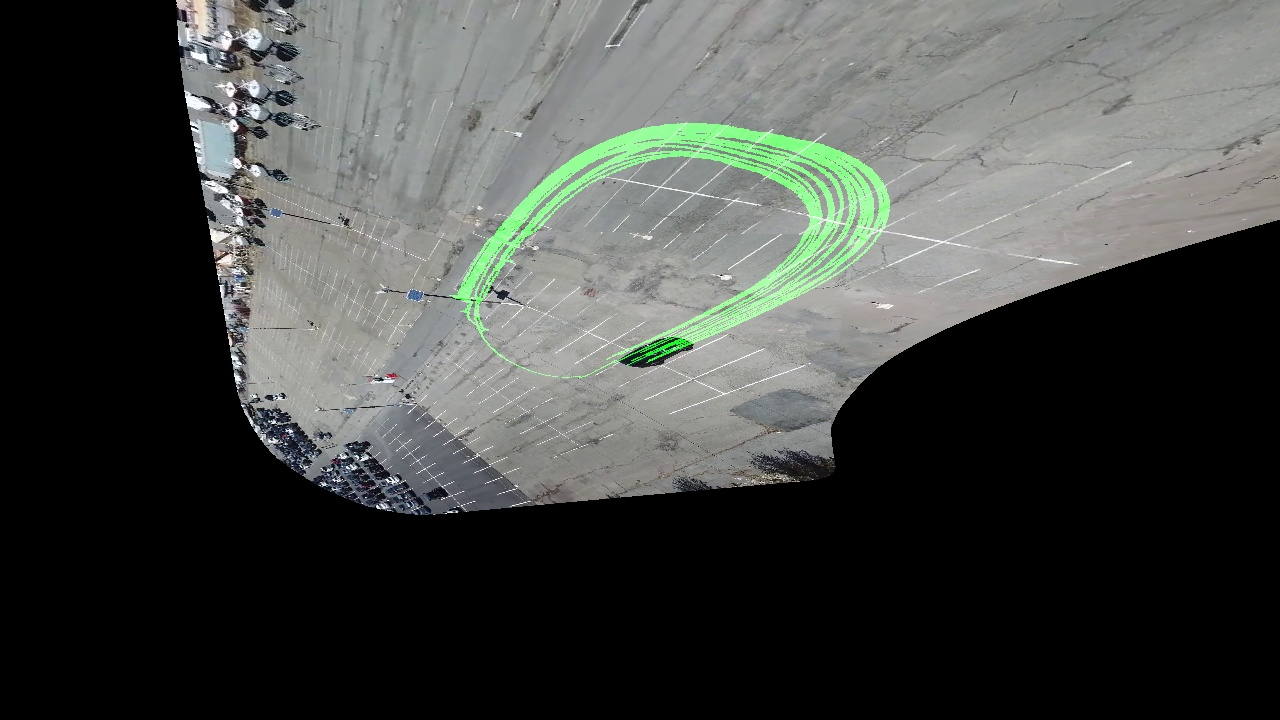
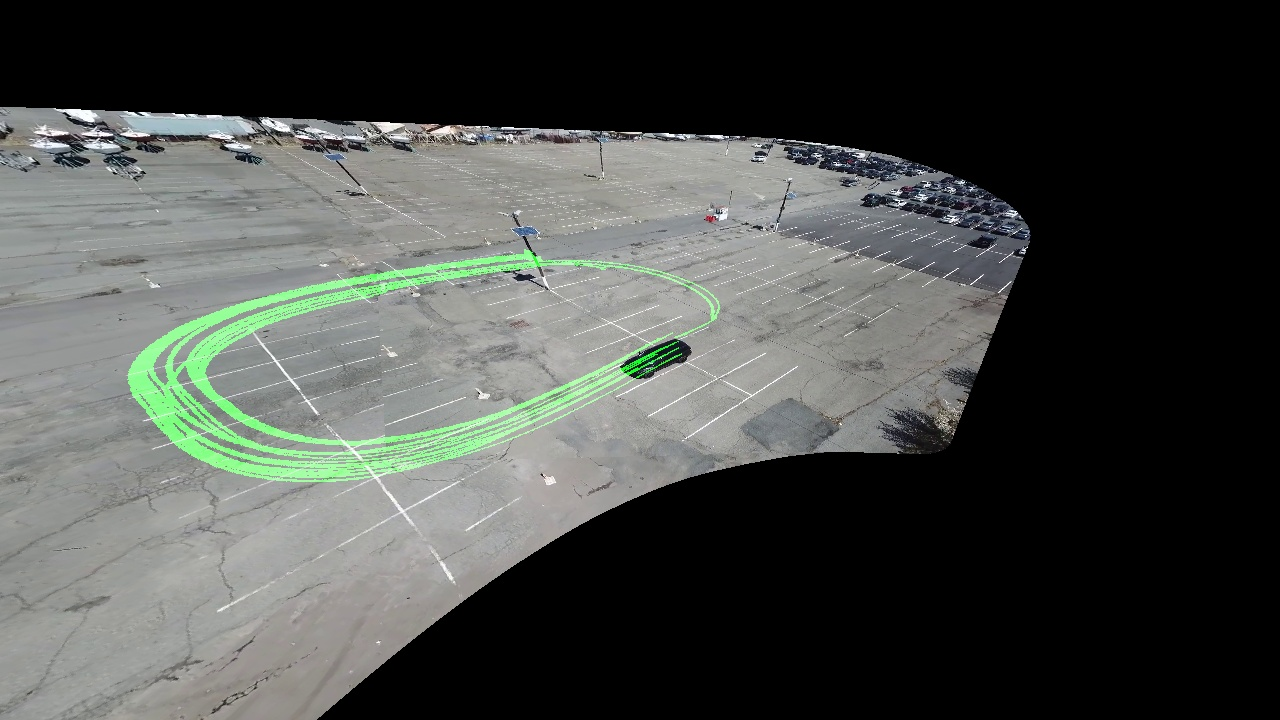
sumission assignment 4
* everything is running well and tested for all cases.

diff --git a/Assignment_4/Rectification_Tracker.py b/Assignment_4/Rectification_Tracker.py
@@ -10,7 +10,7 @@ output_dir_path = ".//Results//"
 
 input_video_name = "HexBugs.mp4"    # "ParkingLot.mp4"
 num_auto_key_points = 2000
-num_manual_key_points = 1   # 20
+num_manual_key_points = 20
 moving_scene = False
 is_manual_selection = False
 save_out = False
@@ -144,6 +144,10 @@ class Rectification_Tracker:
                                                          maxLevel=3,
                                                          criteria=(cv2.TERM_CRITERIA_EPS | cv2.TERM_CRITERIA_COUNT,
                                                                    10, 0.03))
+        if status is not None:
+            status = status.ravel()
+        else:
+            status = list()
         return next_pts, status.ravel()
 
 
@@ -275,7 +279,7 @@ class Rectification_Tracker:
 
         Rectification_Tracker.ACTION_NAME = Action_Rect
         golden_pts = self.reorder_points(self.get_key_points(golden_frame, is_manual=True, is_rect=True))
-        rect_coord = self.get_overview_coordinates(h, w)
+        rect_coord = self.get_overview_coordinates(w, h)
         H, _ = cv2.findHomography(golden_pts, rect_coord, cv2.RANSAC, Rectification_Tracker.RANSAC_THRESH)
         golden_pts = self.get_key_points(golden_frame, is_manual=False)
 
@@ -296,12 +300,12 @@ class Rectification_Tracker:
             y_translate = (1-Rectification_Tracker.SCALE)/2
             T = np.matmul(
                 np.asmatrix([
-                    [Rectification_Tracker.SCALE, 0, h*x_translate],
-                    [0, Rectification_Tracker.SCALE, w*y_translate],
+                    [Rectification_Tracker.SCALE, 0, w*x_translate],
+                    [0, Rectification_Tracker.SCALE, h*y_translate],
                     [0, 0, 1]], dtype=np.float32), H)
 
         # Final accumulated mosaic
-        mosaic = np.zeros((w, h, c), dtype=np.uint8)
+        mosaic = np.zeros((h, w, c), dtype=np.uint8)
         velocity_mask = np.zeros_like(mosaic)
 
         while cap.isOpened():
@@ -311,7 +315,7 @@ class Rectification_Tracker:
             else:
                 # Computing the homography and warping the current frame
                 curr_warped, T, mask, pts, status = self.calc_homography(curr_frame,
-                                                                         T, (h, w),
+                                                                         T, (w, h),
                                                                          golden_frame,
                                                                          golden_pts,
                                                                          visual_pts,
@@ -330,8 +334,7 @@ class Rectification_Tracker:
                     velocity_mask = cv2.add(velocity_mask, mask)
                     mosaic = cv2.add(mosaic, velocity_mask)
 
-                mosaic = cv2.add(mosaic, velocity_mask)
-                cv2.imshow("Stable Mosaic Scene In Progress..", mosaic)
+                cv2.imshow("Stable Mosaic Scene In Progress..", np.rot90(np.fliplr(mosaic)))
                 k = cv2.waitKey(1) & 0xff
                 if k == 27:
                     break
@@ -340,14 +343,15 @@ class Rectification_Tracker:
         cap.release()
         print("Done!")
 
+        final_mosaic = np.rot90(np.fliplr(mosaic))
         if save_out:
             if not os.path.exists(output_dir_path):
                 os.mkdir(output_dir_path)
             out_name = "Stable_Scene_" + input_video_name[0:-4] + "_out.jpg"
-            cv2.imwrite(output_dir_path + out_name, mosaic, Rectification_Tracker.JPEG_PARAM)
+            cv2.imwrite(output_dir_path + out_name, final_mosaic, Rectification_Tracker.JPEG_PARAM)
             print(out_name, "is saved.")
 
-        cv2.imshow("Final Stable Mosaic Scene", mosaic)
+        cv2.imshow("Final Stable Mosaic Scene", final_mosaic)
         cv2.waitKey(0)
         cv2.destroyAllWindows()
 
